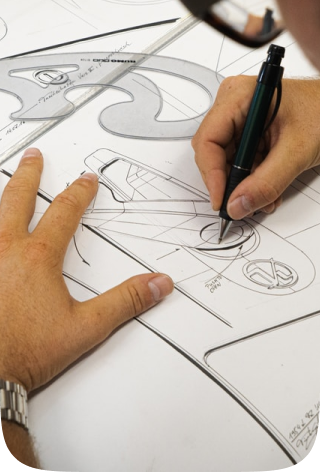
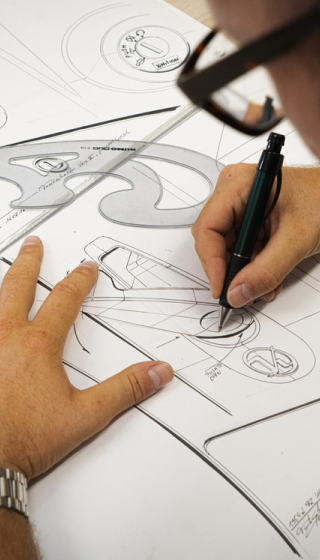
fix: Layout mob & desk for HomeView.BecomeMentor.
Fixed BecomeMentor component layout.
Fonts, padding, graps, layout and etc.

Changed img for BecomeMentor.

Fixed dublication Tags mixin-font.
Tags + Tags -> Tags + Caption.

task: #28, #29

diff --git a/src/app/views/home/BecomeMentor/BecomeMentor.scss b/src/app/views/home/BecomeMentor/BecomeMentor.scss
@@ -1,38 +1,158 @@
 @import "~app/assets/scss/bundle.scss";
 
+.become-mentor__title {
+	color: $color-black-main;
+
+	@include H2Bold;
+
+	@include for-size(big-phone-screen) {
+		@include H2Bold(32px);
+	}
+}
+
 .become-mentor {
-	padding: 4em 7.5em;
+	display: grid;
+	grid-template: 1fr / 700fr 480fr;
+	@include gap(0);
+
+	overflow: hidden;
+
+	padding: 0;
+	margin: 0;
+	
+	border-radius: 70px;
+
 	background: $color-green;
-	border-radius: 4.25em;
-	box-shadow: 0px 2px 8px rgba($color-green, 0.1), 0px 8px 30px rgba($color-green, 0.2), 0px 8px 200px rgba($color-green, 0.4);
+	box-shadow: 
+		0px 2px 8px rgba($color-green, 0.1),
+		0px 8px 30px rgba($color-green, 0.2), 
+		0px 8px 200px rgba($color-green, 0.4);
 
-	@include Mobile {
-		display: grid;
-		// @include row-gap(1em);
+	@include for-size (big-phone-screen) {
+		grid-template: auto auto / 1fr;
+		grid-template-areas:
+			"images"
+			"container";
+	}
+}
 
-		padding: 2em;
+.become-mentor__images {
+	@include for-size (big-phone-screen) {
+		grid-area: images;
+		height: 133vw;
+	}
+
+	position: relative;
+
+	height: 100%;
+	width: 100%;
+
+	overflow: hidden;
+
+	.become-mentor__image {
+		position: absolute;
+		& > img {
+			position: absolute;
+			left: 0;
+			top: 0;
+
+			height: 100%;
+			width: 100%;
+
+			border-radius: 50px;
+			@include for-size(big-phone-screen) {
+				border-radius: 33px;
+			}
+		}
+
+		&_1 {
+			left: 17%;
+			top: 0;
+			
+			width: 67%;
+			padding-top: 117%;
+
+			& > img {
+				transform: translate(0, -15.7%);
+			}
+		}
+
+		&_2 {
+			left: 0;
+			top: 0;
+			
+			padding-top: 113%;
+			width: 33%;
+
+			&>img {
+				transform: translate(0, 10%);
+
+				@include for-size(big-phone-screen) {
+					transform: translate(8px, 18%);
+				}
+			}
+		}
+		
+		&_3 {
+			bottom: 0;
+			right: 0;
+
+			padding-top: 91.6%;
+			width: 50%;
+
+			& > img {
+				left: unset;
+				top: unset;
+
+				bottom: 0;
+				right: 0;
+
+				transform: translate(-8px, -5.5%);
+
+				@include for-size(big-phone-screen) {
+					transform: translate(-8px, 0);
+				}
+			}
+		}
 	}
 }
 
 .become-mentor__container {
-	display: grid;
-	@include row-gap(3.5em);
+	@include for-size (big-phone-screen) {
+		grid-area: container;
+		padding: 24px 36px 36px;
+	}
 
-	max-width: 27.5em;
+	display: grid;
+
+	@include row-gap(56px);
+	@include for-size(big-phone-screen) {
+		@include row-gap(32px);
+	}
+
+	padding: 92px 140px 92px 120px;
+	
 }
 
 .become-mentor__info {
 	display: grid;
-	@include row-gap(1.5em);
-}
-
-.become-mentor__title {
-	color: $color-black-main;
+	@include row-gap(24px);
+	@include for-size(big-phone-screen) {
+		@include row-gap(16px);
+	}
 }
 
 .become-mentor__desc {
 	color: $color-black-3;
-	@include Font(1.5rem);
+	@include H4Regular;
+
+	& > ul {
+		@include gap(0);
+	}
+
+	@include for-size(big-phone-screen) {
+		@include H4Regular(16px, 24px);
+	}
 }
 
 .become-mentor__bottom {
@@ -42,11 +162,11 @@
 
 .become-mentor__terms {
 	color: $color-gray-80;
-	@include Font(0.75rem);
+	@include CaptionRegular;
+
 
 	a {
 		color: inherit;
-		@include Link;
 	}
 
 	@include Mobile {
@@ -54,44 +174,4 @@
 	}
 }
 
-.become-mentor__images {
-	position: absolute;
-	top: 0;
-	right: 0;
-	bottom: 0;
 
-	width: 30em;
-
-
-	&>:nth-child(1) {
-		position: absolute;
-		left: 5em;
-		width: 20em;
-	}
-
-	&>:nth-child(2) {
-		position: absolute;
-		top: 3.5em;
-		left: 0;
-
-		width: 10em;
-	}
-
-	&>:nth-child(3) {
-		position: absolute;
-		right: 0.5em;
-		bottom: 1em;
-		width: 15em;
-	}
-
-	@include Mobile {
-		position: relative;
-		top: -2rem;
-		left: -1rem;
-
-		grid-row: 1;
-		width: calc(100% + 2.5rem);
-		height: 33.5rem;
-		font-size: 75%;
-	}
-}

diff --git a/src/app/views/home/BecomeMentor/BecomeMentor.tsx b/src/app/views/home/BecomeMentor/BecomeMentor.tsx
@@ -12,12 +12,14 @@ import { useTranslation } from "react-i18next"
 function BecomeMentor() {
   const { t } = useTranslation("translation", { keyPrefix: "views.home.becomeMentor" })
   const { payload } = useQuery(getPagesLinksDocuments)
+
   const links = payload?.results.reduce<Record<PageLinkType["type"], PageLinkType>>((result, next) => ({ ...result, [next.type]: next }), {} as never)
+
   return (
     <div className="become-mentor">
       <div className="become-mentor__container">
         <div className="become-mentor__info">
-          <h2 className="become-mentor__title heading">{t("title")}</h2>
+          <div className="become-mentor__title heading">{t("title")}</div>
           <div className="become-mentor__desc">{t("desc")}</div>
         </div>
         <div className="become-mentor__bottom">
@@ -26,9 +28,12 @@ function BecomeMentor() {
         </div>
       </div>
       <div className="become-mentor__images">
-        <img src="/static/images/mentor-cards/1.png" alt="stock image of mentor" />
-        <img src="/static/images/mentor-cards/2.png" alt="stock image of mentor" />
-        <img src="/static/images/mentor-cards/3.png" alt="stock image of mentor" />
+        <div className="become-mentor__image become-mentor__image_1">
+          <img src="/static/images/mentor-cards/1.png" alt="stock image of mentor" /></div>
+        <div className="become-mentor__image become-mentor__image_2">
+          <img src="/static/images/mentor-cards/2.png" alt="stock image of mentor" /></div>
+        <div className="become-mentor__image become-mentor__image_3">
+          <img src="/static/images/mentor-cards/3.png" alt="stock image of mentor" /></div>
       </div>
     </div>
   )

diff --git a/src/app/assets/scss/_fonts.scss b/src/app/assets/scss/_fonts.scss
@@ -115,7 +115,7 @@ $font_size_small-phone-screen: math.round(math.div($font_size_middle-phone-scree
 @mixin TagsRegular($size: 14px, $height: null) { @include Tags($size, $height, 400) }
 
 // Caption
-@mixin Tags($size: 14px, $height: null, $weight: 400, $style: normal) {
+@mixin Caption($size: 12px, $height: null, $weight: 400, $style: normal) {
     @if $height == null {
         $height: $size * 1.33;
     }
@@ -125,4 +125,4 @@ $font_size_small-phone-screen: math.round(math.div($font_size_middle-phone-scree
     
     letter-spacing: 0.02em;
 }
-@mixin TagsRegular($size: 12px, $height: null) { @include Tags($size, $height, 400) }
+@mixin CaptionRegular($size: 12px, $height: null) { @include Caption($size, $height, 400) }

diff --git a/src/app/views/home/HomeView.scss b/src/app/views/home/HomeView.scss
@@ -52,7 +52,10 @@
 	}
 }
 
-.home-view__how-it-works, .home-view__helpful-creaty, .home-view__faq {
+.home-view__helpful-creaty, 
+.home-view__become-mentor,
+.home-view__how-it-works, 
+.home-view__faq {
 	@include WidthLimit;
 	margin-top: 240px;
 	@include for-size(big-phone-screen) {
@@ -74,11 +77,6 @@
 	@include for-size(big-phone-screen) {
 		margin-top: 40px;
 	}
-}
-
-.home-view__become-mentor {
-	@include WidthLimit;
-	margin-top: 15em;
 }
 
 .home-view__mailing-subscribe {

diff --git a/src/app/components/UI/Input/Input.tsx b/src/app/components/UI/Input/Input.tsx
@@ -60,6 +60,7 @@ function InputMasks<V>(props: InputMasksProps<V>) {
     setIsExpanded(false)
   }
   useClickAway(parentRef, () => setIsExpanded(false))
+  
   return (
     <div className="input-masks" ref={parentRef}>
       <button className="input-masks__current" type="button" onClick={() => setIsExpanded(!isExpanded)} >
